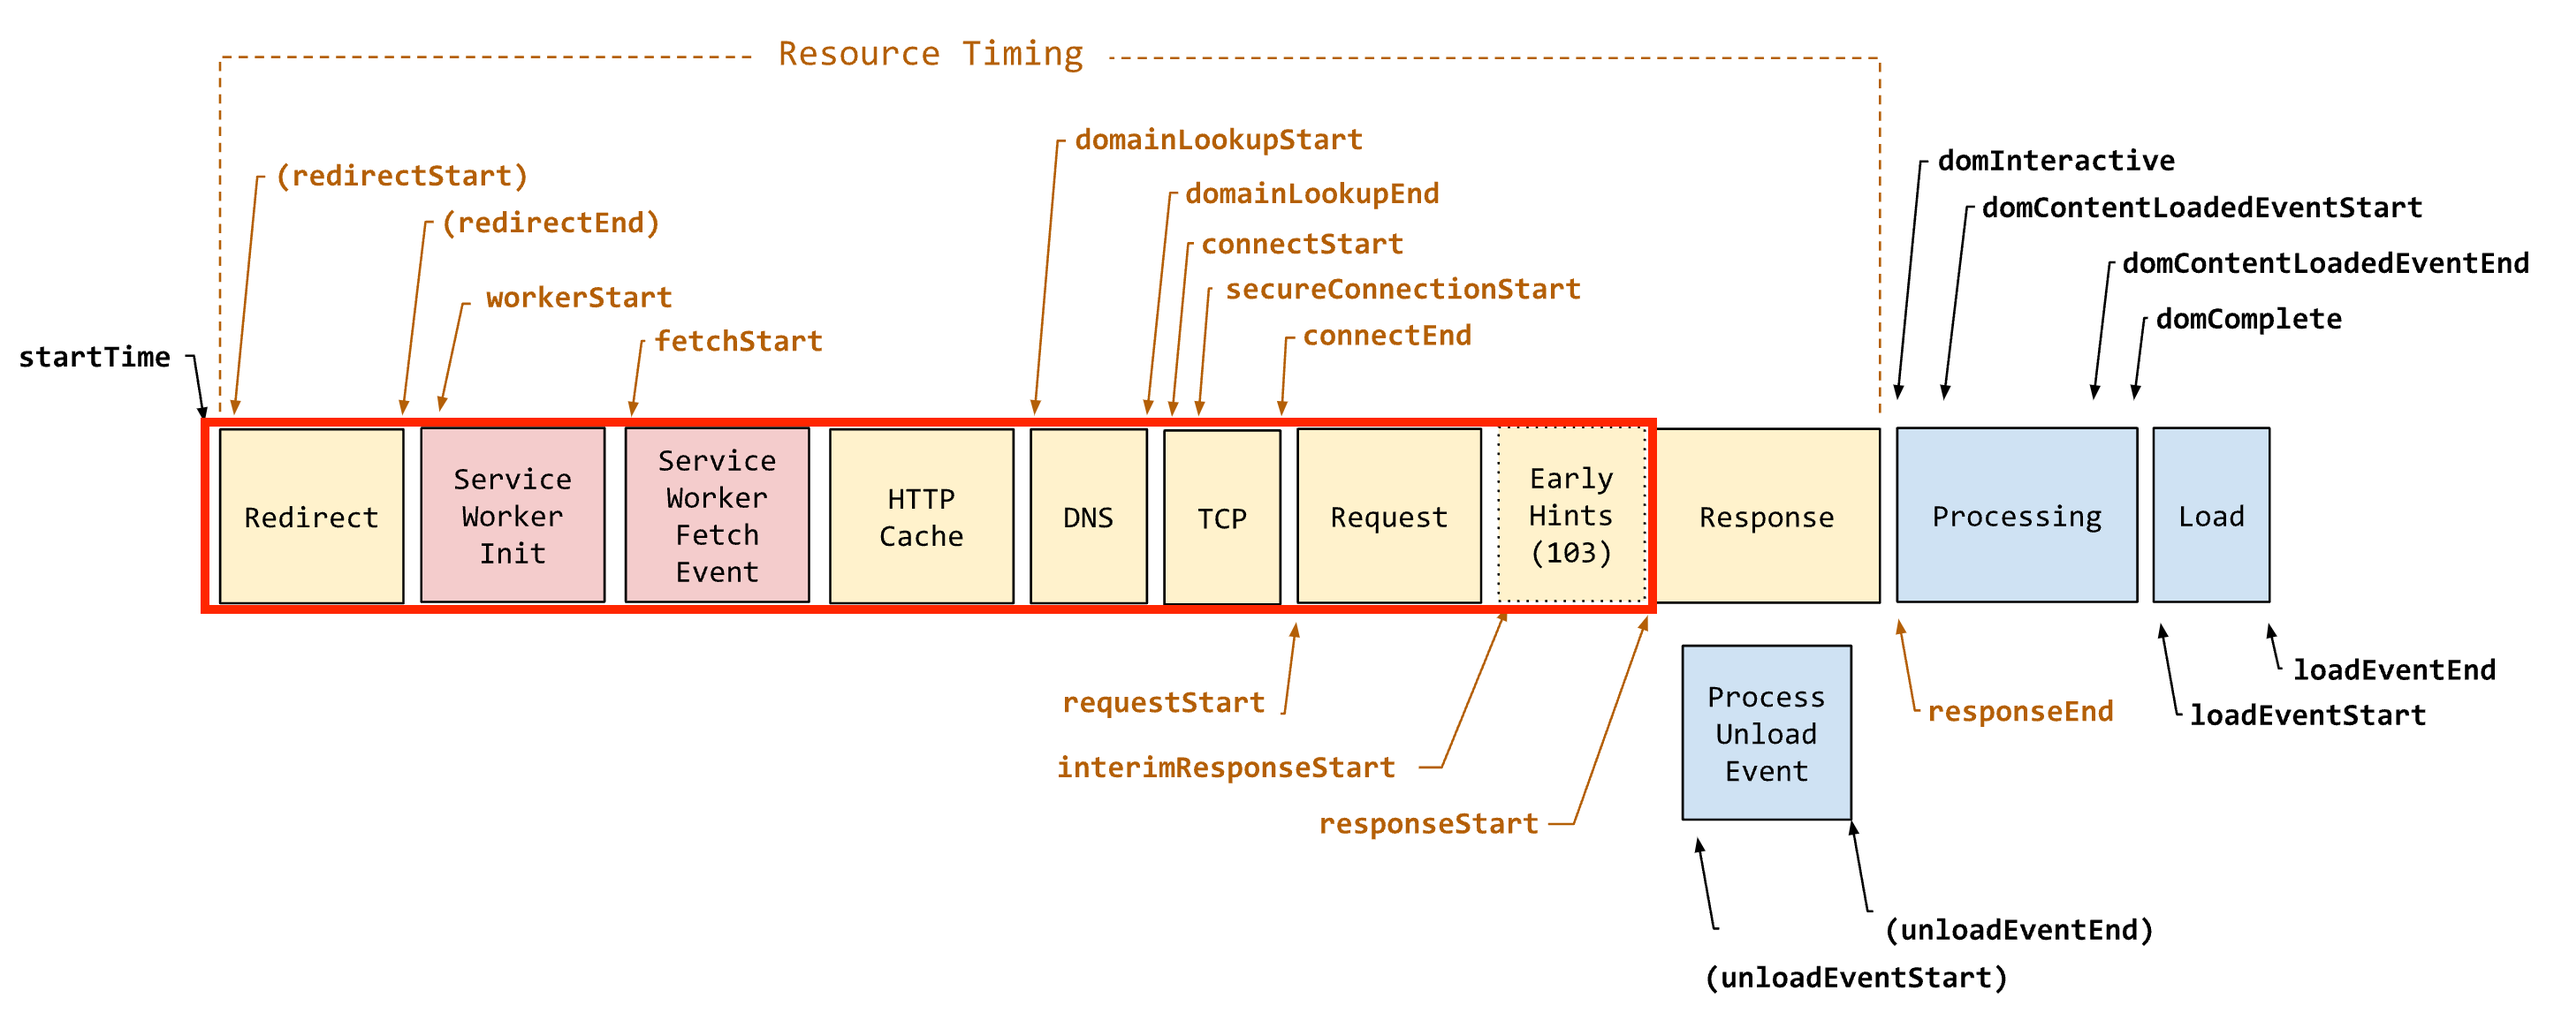
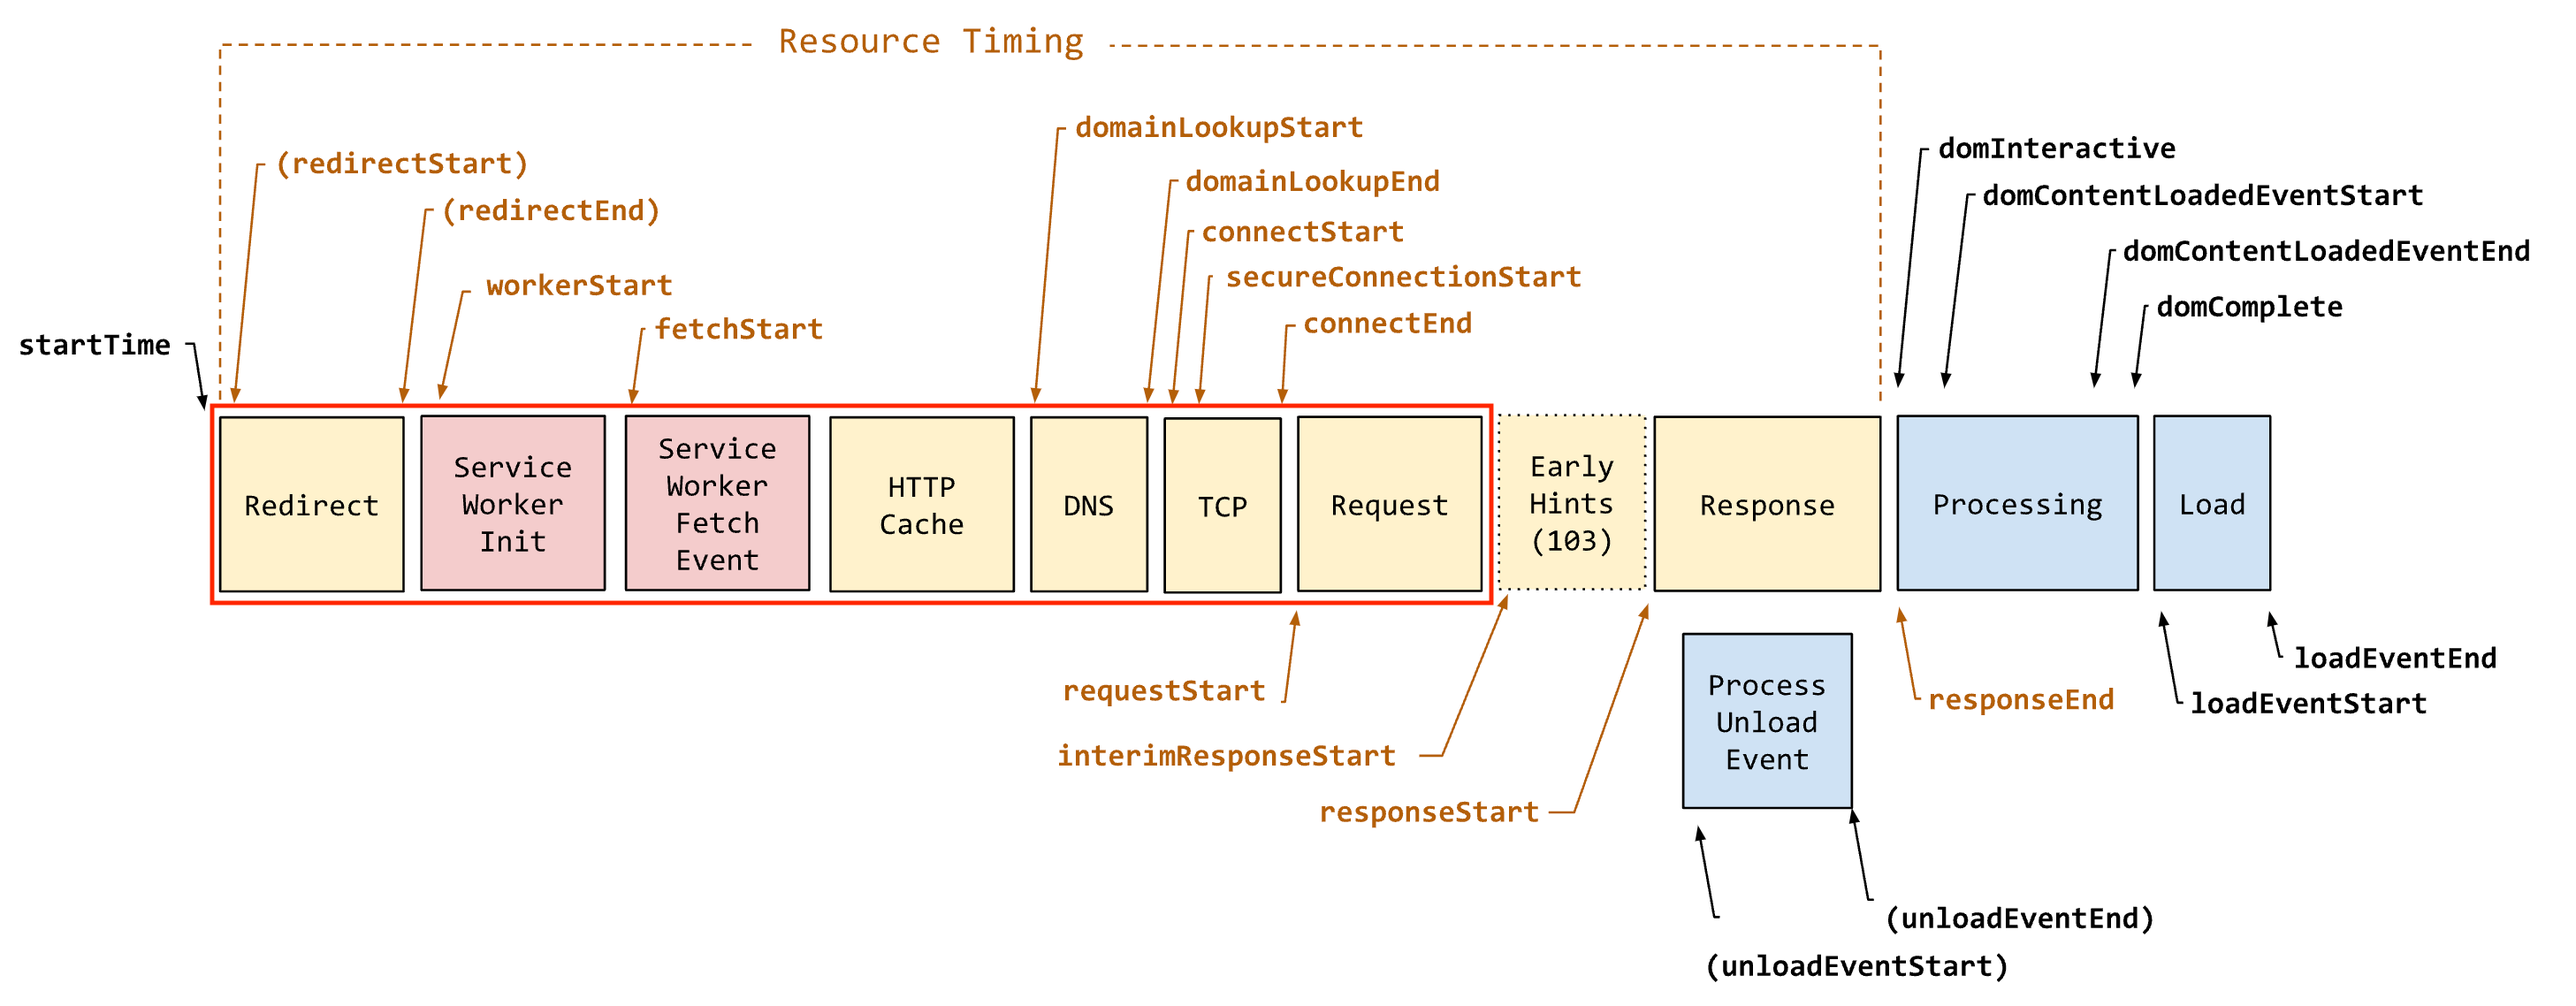
Updates for firstInterimResponseStart

diff --git a/index.html b/index.html
@@ -181,7 +181,8 @@
 
           <p>
             As you can see in the <a href="https://w3c.github.io/navigation-timing/">Navigation Timing Level 2 draft spec</a>
-            screenshot above, the metric is equivalent to <code>performance.getEntriesByType('navigation')[0].responseStart</code>.
+            screenshot above, the metric is equivalent to <code>performance.getEntriesByType('navigation')[0].responseStart</code>
+            (or <code>firstInterimResponseStart</code> for those servers using 103 Early Hints).
           </p>
 
           <h2>How do you determine: Fast, Average, Slow?</h2>
